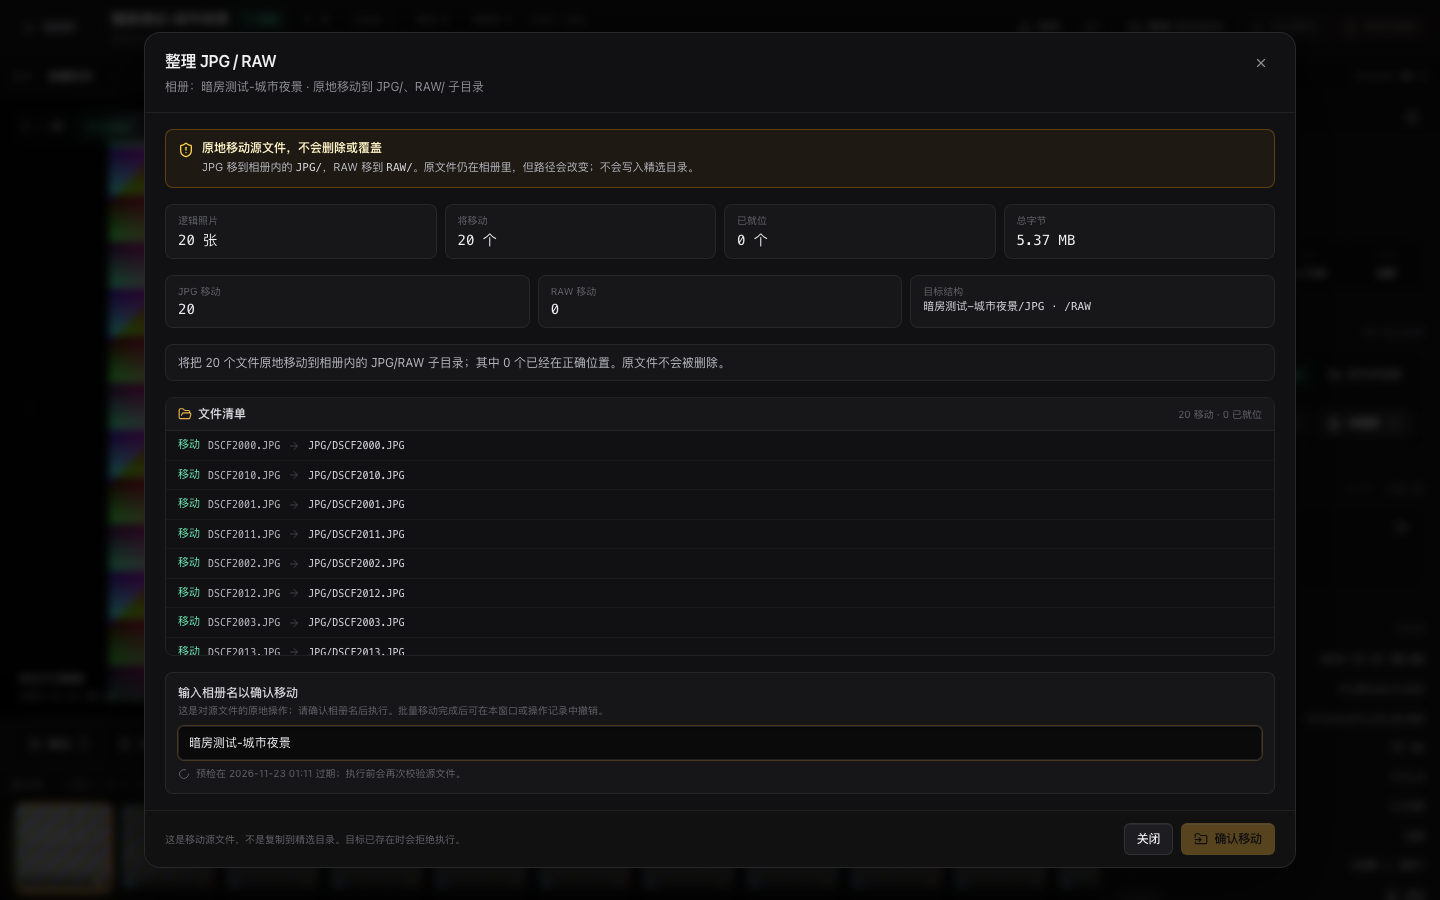
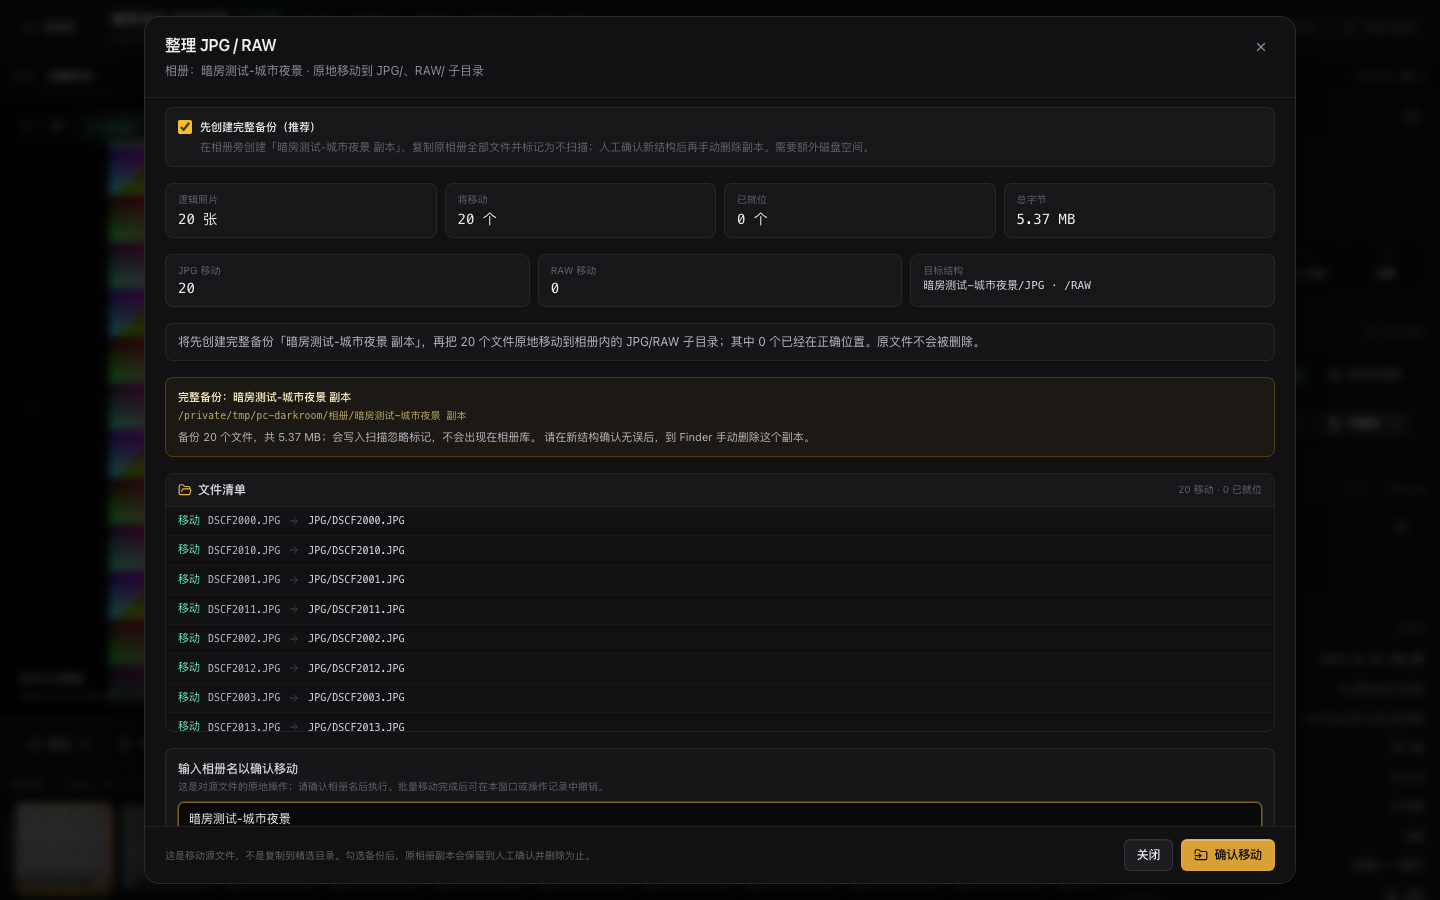
chore(release): 0.5.0
Document the verified backup option, marker-based scan exclusion and
manual cleanup; refresh screenshots and test report.

diff --git a/apps/server/photo_curator/config.py b/apps/server/photo_curator/config.py
@@ -12,7 +12,7 @@ import shutil
 from dataclasses import dataclass, field
 from pathlib import Path
 
-APP_VERSION = "0.4.0"
+APP_VERSION = "0.5.0"
 DEFAULT_PHOTO_ROOT = Path.home() / "Desktop" / "相册"
 DEFAULT_EXPORT_DIR_NAME = "精选原相册"
 PROJECT_ROOT = Path(__file__).resolve().parents[3]

diff --git a/apps/server/photo_curator/__init__.py b/apps/server/photo_curator/__init__.py
@@ -1,3 +1,3 @@
 """相册精选助手后端包。"""
 
-__version__ = "0.4.0"
+__version__ = "0.5.0"

diff --git a/docs/test-report.md b/docs/test-report.md
@@ -9,17 +9,17 @@
 
 | 检查项 | 命令 | 结果 |
 | --- | --- | --- |
-| 后端单元 + 集成 + 原生废纸篓 + 性能 | `.venv/bin/python -m pytest -q` | **135 passed**，1 warning，6.50s |
+| 后端单元 + 集成 + 原生废纸篓 + 性能 | `.venv/bin/python -m pytest -q` | **136 passed**，1 warning，6.50s |
 | 后端原生 macOS 废纸篓专项 | `.venv/bin/python -m pytest tests/integration/test_trash_macos.py -v` | **2 passed**（真实 `NSFileManager`，夹具已恢复并清理） |
 | 大相册性能 | `.venv/bin/python -m pytest tests/performance -q -s` | **1 passed**：扫描 1000 张逻辑照片 **0.71s**，首屏 200 张 **0.010s**，遍历全部 5 页 **0.04s** |
 | 前端类型检查 | `npm run typecheck` | **通过**（TypeScript strict，`tsc -b`） |
 | 前端单元/交互测试 | `npm test` | **19 passed**（Vitest 5.1.1，3 个测试文件） |
-| 前端生产构建 | `npm run build` | **成功**：`dist/assets/index-*.js` 527.46 kB（gzip 155.07 kB），CSS 49.09 kB（gzip 9.21 kB） |
+| 前端生产构建 | `npm run build` | **成功**：`dist/assets/index-*.js` 529.77 kB（gzip 155.72 kB），CSS 49.17 kB（gzip 9.24 kB） |
 | 依赖安全审计 | `npm audit` | **0 vulnerabilities** |
 | GitHub Actions（macOS） | 全部 PR 与 `main` | **通过**（后端测试、类型检查、Vitest、生产构建） |
-| Playwright 端到端 | `npm run test:e2e` | **3 passed**，17.4s；含默认适应视图、清理缩略图、原地整理与撤销，使用生产构建 + 临时夹具 + 真实 macOS 废纸篓并撤销 |
+| Playwright 端到端 | `npm run test:e2e` | **3 passed**，17.5s；含默认适应视图、清理缩略图、原地整理/备份与撤销，使用生产构建 + 临时夹具 + 真实 macOS 废纸篓并撤销 |
 
-测试数量构成：54 个单元测试（配对、自然排序、路径安全、EXIF 文本清理与 ExifTool 解析）、80 个集成/接口测试、1 个性能测试。
+测试数量构成：54 个单元测试（配对、自然排序、路径安全、EXIF 文本清理与 ExifTool 解析）、81 个集成/接口测试、1 个性能测试。
 
 唯一警告来自 FastAPI/Starlette 的测试客户端对 `httpx` 的弃用提示，不影响运行；没有测试被跳过。
 
@@ -90,6 +90,14 @@
 - `src/components/culler/Filmstrip.test.tsx`（2 个）：左右翻批按钮存在与禁用状态、点击右翻按视口宽度滚动（不是只移动一张）。
 - `src/components/ui/Modal.test.tsx`（3 个）：焦点陷阱、Esc 关闭、关闭后焦点恢复。
 
+0.5.0 整理前完整备份：
+
+- 整理弹窗默认勾选“先创建完整备份”，在相册旁创建 `<相册名> 副本`；复制全部文件并写入 `.photo-curator-ignore`，相册库不显示备份。
+- 预检展示备份路径、文件数、字节数并检查磁盘空间；备份目录已存在或空间不足时阻止。
+- 备份逐文件校验内容，失败则删除未完成备份并保持原相册不变；整理移动失败时保留备份。
+- 同一 Album/PhotoGroup/Asset ID 与状态不变，信息自动跟随；撤销整理不删除备份，需人工确认后手动删除。
+- 后端新增备份集成测试；Playwright 断言备份存在、扫描忽略、撤销后备份保留。
+
 0.4.0 原地整理 JPG/RAW：
 
 - 新增受控整理协议：重新扫描预检 → 逐文件源/目标清单与阻止项 → 输入相册名二次确认 → 移动 → 操作记录 → 可撤销。
@@ -130,9 +138,9 @@ tsc -b → 通过
 vite v7.3.8 building client environment for production...
 ✓ 1674 modules transformed.
 dist/index.html                   0.45 kB │ gzip:   0.31 kB
-dist/assets/index-BqcM3m9a.css   49.09 kB │ gzip:   9.21 kB
-dist/assets/index-BbXCCmct.js   527.46 kB │ gzip: 155.07 kB
-✓ built in 1.27s
+dist/assets/index-bRRbmXkr.css   49.17 kB │ gzip:   9.24 kB
+dist/assets/index-Cq2ECp-e.js   529.77 kB │ gzip: 155.72 kB
+✓ built in 1.22s
 ```
 
 ## 5. 端到端验收（Playwright，生产构建）
@@ -159,12 +167,12 @@ dist/assets/index-BbXCCmct.js   527.46 kB │ gzip: 155.07 kB
 4. `X`/按钮只改待删除状态，磁盘文件不变；再次点击取消。
 5. 自动播放控件存在。
 
-### 链路 3：原地整理（1 个测试，约 5.7s）
+### 链路 3：原地整理（含完整备份，1 个测试，约 5.7s）
 
 1. 打开无冲突的人像相册，进入“整理 JPG/RAW”。
 2. 预检显示移动/已就位数量与逐文件目标；确认按钮在输入相册名前禁用。
-3. 输入相册名、确认后，源文件移动到 `JPG/`、`RAW/`，磁盘上原平铺路径消失。
-4. 结果弹窗展示成功文件数；点击撤销并确认，文件移回原路径，本次新建的空目录被移除。
+3. 输入相册名、确认后，先创建 `<相册名> 副本` 完整备份（带扫描忽略标记），再把源文件移动到 `JPG/`、`RAW/`。
+4. 结果弹窗展示成功文件数与备份路径；点击撤销并确认，文件移回原路径，本次新建的空目录被移除，备份保留供人工确认/删除。
 
 ### 截图（真实运行，合成夹具）
 

diff --git a/docs/api-contract.md b/docs/api-contract.md
@@ -391,6 +391,14 @@ PATCH 可只传其中一个字段：`defaultSort`（`capture`/`filename`）、`a
 
 ### `POST /api/albums/{albumId}/organize/preflight`
 
+请求体（可选）：
+
+```json
+{ "keepBackup": true }
+```
+
+`keepBackup` 为 `true` 时，在相册旁创建 `<相册名> 副本` 的完整备份，并检查目标不存在、无符号链接、磁盘空间足够。响应中的 `backup` 为 `null` 表示未创建备份或备份不可用。
+
 ```json
 {
   "albumId": "uuid",
@@ -403,6 +411,12 @@ PATCH 可只传其中一个字段：`defaultSort`（`capture`/`filename`）、`a
     "skipCount": 3, "jpgCount": 8, "rawCount": 4, "totalBytes": 12345678
   },
   "blocked": false,
+  "backup": {
+    "relativePath": "2026-京都旅行 副本",
+    "absolutePath": "/.../相册/2026-京都旅行 副本",
+    "bytes": 12345678,
+    "fileCount": 42
+  },
   "blockers": [
     { "code": "PAIRING_CONFLICT | ASSET_MISSING | DESTINATION_CONFLICT | SOURCE_CHANGED", "message": "...", "groupId": "...", "displayName": "...", "relativePath": "...", "destinationRelativePath": "..." }
   ],
@@ -424,6 +438,7 @@ PATCH 可只传其中一个字段：`defaultSort`（`capture`/`filename`）、`a
 - 预检会先重新扫描相册；目标结构固定为 `<相册>/JPG/<原文件名>` 与 `<相册>/RAW/<原文件名>`。
 - 存在任何 `blockers` 时 `token` 为 `null`，整批不执行，不覆盖任何文件。
 - 已经处于正确位置、没有实际移动的文件记录为 `skip`。
+- 备份目录写入 `.photo-curator-ignore`，发现相册时跳过；备份不会出现在相册库。备份是完整复制，占用额外磁盘空间，需人工确认后手动删除。
 - 空文件/无移动时同样返回 `token: null`，`message` 说明无需整理。
 
 ### `POST /api/albums/{albumId}/organize/execute`
@@ -432,11 +447,12 @@ PATCH 可只传其中一个字段：`defaultSort`（`capture`/`filename`）、`a
 { "preflightToken": "...", "idempotencyKey": "uuid" }
 ```
 
-成功或失败返回 `operation`（类型 `organize`）、`summary`、`blockers`、`idempotentReplay`。逐文件 `result` 为 `success`、`skipped`、`failed`、`restored`；失败的整批执行会回滚已移动文件，`failed` 项保留错误。
+成功或失败返回 `operation`（类型 `organize`）、`summary`、`backup`、`blockers`、`idempotentReplay`。逐文件 `result` 为 `success`、`skipped`、`failed`、`restored`；失败的整批执行会回滚已移动文件，`failed` 项保留错误。`backup` 在成功时保留，撤销整理不会删除它。
 
 - 预检后源文件、目录或配对状态变化：`409 SOURCE_CHANGED`，整批不执行，操作记录标记失败。
 - 同一 `idempotencyKey` 重放返回原操作，不重复移动。
 - 移动使用 hard link + unlink，目标已存在时绝不覆盖；若文件系统不支持 hard link，回退 `rename` 前仍做目标存在性检查。
+- 备份复制失败会删除本次未完成的备份并保持原相册不变；移动失败会保留已完成的备份供人工恢复。
 
 ### `POST /api/operations/{operationId}/restore`
 

diff --git a/docs/known-limitations.md b/docs/known-limitations.md
@@ -44,11 +44,15 @@
 - 原地整理会改变源文件路径，是唯一的常规源路径变更操作。配对冲突、文件缺失、目标同名、符号链接或预检后文件变化时整批拒绝，绝不覆盖。
 - 整理移动使用 hard link + unlink；不支持硬链接的卷会回退到 rename（仍先检查目标不存在）。若整批中途失败，会回滚已移动文件；回滚失败会保留实际位置并要求人工核对。
 - 整理支持从结果弹窗或操作详情撤销；原路径已有新文件时拒绝覆盖，可先处理冲突后重试。撤销只影响本次实际移动的文件，原本已在 JPG/RAW 的文件不会被移回。
+- “先创建完整备份”会把相册全部文件复制到 `<相册名> 副本`，需要约等于原相册的额外磁盘空间；备份带有 `.photo-curator-ignore`，不会出现在相册库，也不会自动删除，必须人工确认后手动删除。
+- 备份复制逐文件校验内容；备份失败时删除未完成的备份并保持原相册不变。整理移动失败时保留已完成的备份，供人工恢复。
+- 不要手动移动或改名带 `.photo-curator-ignore` 的备份后继续依赖它的路径；应用不会追踪人工移动后的副本。
+- 备份不是新的 Album，不包含独立状态；应用信息始终跟随原 Album/Asset ID。
 - 若在整理执行中强制退出应用，操作会被标记为「中断，需核对」。已记录的 success 项仍可撤销；未完成记录的文件可能停留在新路径，需要结合操作明细和 Finder 人工核对，当前不做自动修复。
 
 ## 运行与并发
 
-- 扫描、清理、导出、整理是同步 HTTP 或进程内后台任务，没有持久化任务队列。应用退出会中断进行中的导出/整理；下次启动会标记为「中断，需核对」，不会假装成功。
+- 扫描、清理、导出、整理是同步 HTTP 或进程内后台任务，没有持久化任务队列。应用退出会中断进行中的导出/整理/备份复制；下次启动会标记为「中断，需核对」，不会假装成功。未完成的隐藏备份可能残留在照片根目录，需要人工核对/删除。
 - 导出任务记录在内存中，页面刷新后可通过操作记录继续查看结果；不保存跨重启的进度百分比。
 - 同一相册的扫描/清理/导出/整理按相册锁串行；不同相册之间可以并行。
 - 文件监听只覆盖当前打开的相册；切换相册后旧相册的外部变化在下次打开/重扫时处理。

diff --git a/docs/product-spec.md b/docs/product-spec.md
@@ -353,11 +353,14 @@
 2. 后端重新扫描相册，生成预检：把 JPG 目标定为 `<相册>/JPG/<原文件名>`，RAW 目标定为 `<相册>/RAW/<原文件名>`；
 3. 预检展示移动/已就位数量、JPG/RAW 数量、总字节数、逐文件源→目标清单；
 4. 目标已存在、配对冲突、文件缺失、符号链接、数据库路径冲突或预检后文件变化时，整批拒绝，绝不覆盖；
-5. 用户必须输入相册名二次确认，才可执行；
-6. 执行使用 hard link + unlink（目标存在时原子失败），整批任一文件失败则回滚已移动文件；回滚失败必须明确记录实际位置；
-7. 成功后更新数据库中资产相对路径，配对关系和逻辑照片状态不变；
-8. 结果弹窗和操作详情均可“撤销整理”；回滚只把本次实际移动的文件移回原路径，原路径已有新文件时拒绝覆盖；
-9. 本次新建且已空的 `JPG/`、`RAW/` 目录在全部撤销后移除。
+5. 用户可以选择“先创建完整备份”（默认勾选）：在相册旁创建 `<相册名> 副本`，复制原相册全部文件，写入 `.photo-curator-ignore` 使扫描忽略；预检展示备份路径、文件数、字节数并检查磁盘空间；
+6. 用户必须输入相册名二次确认，才可执行；
+7. 先完成备份复制并逐文件校验字节内容；备份失败则整批不移动，原相册不变；
+8. 执行使用 hard link + unlink（目标存在时原子失败），整批任一文件失败则回滚已移动文件；回滚失败必须明确记录实际位置；
+9. 成功后更新数据库中资产相对路径，配对关系和逻辑照片状态不变；Album/PhotoGroup/Asset ID 不变，信息无需单独迁移；
+10. 结果弹窗和操作详情均可“撤销整理”；回滚只把本次实际移动的文件移回原路径，原路径已有新文件时拒绝覆盖；
+11. 本次新建且已空的 `JPG/`、`RAW/` 目录在全部撤销后移除；
+12. 备份保留到人工确认并手动删除；撤销整理不会自动删除备份，应用不提供删除备份的入口。
 
 边界：
 
@@ -366,6 +369,7 @@
 - 不自动处理更深层嵌套目录；
 - 不覆盖、不合并、不删除同名文件；
 - 不做永久删除；
+- 备份占用额外磁盘空间，大小约等于原相册；备份带 `副本` 后缀且被扫描忽略；
 - 整理与清理、导出、扫描共享相册锁，避免并发路径变化。
 
 ### 5.9 操作记录

diff --git a/README.md b/README.md
@@ -13,7 +13,7 @@
 - **两个独立状态**：浏览状态（未浏览／已浏览）与筛选状态（未筛选／精选／待删除）；乐观锁版本控制，409 不静默覆盖。
 - **两阶段清理**：`X`/`Delete` 只标记；「清理待删除」→ 重新扫描生成预检（带缩略图与悬浮放大预览）→ 明确确认 → 按逻辑照片分组移入 macOS 废纸篓；失败组自动回滚，回滚失败会严重报错并记录实际位置；支持 15 秒撤销与操作详情中的恢复。
 - **精选导出**：复制（绝不移动）到 `精选原相册/<相册名>/JPG|RAW`；流式复制、临时文件、内容哈希、同名同内容跳过、同名不同内容不覆盖；增量导出。
-- **原地整理 JPG/RAW**：把相册里的 JPG、RAW 分别移动到相册内的 `JPG/`、`RAW/` 子目录；预检 + 输入相册名二次确认 + 逐文件操作记录，可从结果或操作记录撤销。目标已存在、配对冲突、文件缺失或预检后变化时整批拒绝，绝不覆盖。
+- **原地整理 JPG/RAW**：把相册里的 JPG、RAW 分别移动到相册内的 `JPG/`、`RAW/` 子目录；预检 + 输入相册名二次确认 + 逐文件操作记录，可从结果或操作记录撤销。默认先创建完整备份 `<相册名> 副本`（扫描忽略），人工确认新结构后手动删除；状态和操作记录自动跟随。目标已存在、配对冲突、文件缺失、备份空间不足或预检后变化时整批拒绝，绝不覆盖。
 - **可追溯**：清理、恢复、导出、扫描、原地整理均有操作记录与逐文件明细；应用崩溃时未完成任务标记为「中断，需核对」。
 - **外部变化**：监听当前相册，去抖后完整校对扫描；重启后以扫描结果为准；缺失状态保留，文件恢复后自动合并。
 - **异常中心**：配对冲突、文件缺失、导出冲突、RAW 预览失败、扫描错误；可在 Finder 中显示并在处理后重新扫描。

diff --git a/docs/architecture.md b/docs/architecture.md
@@ -124,6 +124,8 @@ POST organize/preflight
 POST organize/execute {token, idempotencyKey}
   ├─ 幂等/令牌/占用校验同清理
   ├─ 执行前再次校验路径、目标、size/mtime、配对状态
+  ├─ 若 keepBackup：完整复制相册到 <相册> 副本，写 .photo-curator-ignore，
+  │   逐文件校验字节内容；失败则清理未完成备份，原相册不变
   ├─ 创建 JPG/、RAW/（若不存在），拒绝符号链接/同名文件
   ├─ 逐文件：link+unlink（目标存在原子失败）→ Asset.relative_path 更新
   ├─ 任一失败：回滚已移动文件与 DB 路径，未执行项标记 failed
@@ -137,7 +139,7 @@ POST operations/{organizeId}/restore
   └─ 全部成功：原 operation=restored；本次新建的空 JPG/RAW 目录移除
 ```
 
-整理和清理、导出、扫描共享相册锁。崩溃后整理操作显示 `interrupted`；已记录的 success 项仍可通过操作详情撤销，未记录成功的半移动文件需要在 Finder/操作明细中人工核对。
+整理和清理、导出、扫描共享相册锁。备份使用同一 Album/PhotoGroup/Asset ID，整理只更新 Asset.relative_path，因此查看/精选/待删除/封面与操作记录自然保留；备份不是新的 Album，也不参与扫描。备份保留到人工确认并手动删除，撤销整理不自动删除备份。崩溃后整理操作显示 `interrupted`；已记录的 success 项仍可通过操作详情撤销，未记录成功的半移动文件需要在 Finder/操作明细中人工核对。
 
 ## 7. 导出协议
 

diff --git a/CHANGELOG.md b/CHANGELOG.md
@@ -1,5 +1,24 @@
 # Changelog
 
+## 0.5.0 - 2026-11-23
+
+### Added
+
+- 原地整理新增“先创建完整备份”选项（默认勾选）：在相册旁创建 `<相册名> 副本`，复制原相册全部文件并写入 `.photo-curator-ignore`，不会出现在相册库。
+- 备份在移动前完成并逐文件校验字节内容；磁盘空间不足、备份目录已存在或存在符号链接时，整批阻止。
+- 整理完成后同一 Album/PhotoGroup/Asset ID 保持不变，查看/精选/待删除/封面信息和操作记录自动跟随，无需单独迁移。
+- 人工确认新结构后，到 Finder 手动删除带“副本”的备份；撤销整理不会自动删除备份。
+- 预检弹窗展示备份路径、文件数、字节数与磁盘检查结果；结果面板持续提示备份位置。
+
+### Safety
+
+- 备份复制失败会删除本次未完成的备份并保持原相册不变；整理移动失败时保留已完成的备份供人工恢复。
+- 备份仅用于人工验证与恢复，不作为源相册扫描；不要用 Finder 手动移入其他目录后继续依赖应用记录。
+
+### Tests
+
+- 后端 136 passed；前端 19 passed；Playwright 3 passed（新增备份存在、扫描忽略、撤销后备份保留断言）。
+
 ## 0.4.0 - 2026-11-23
 
 ### Added
